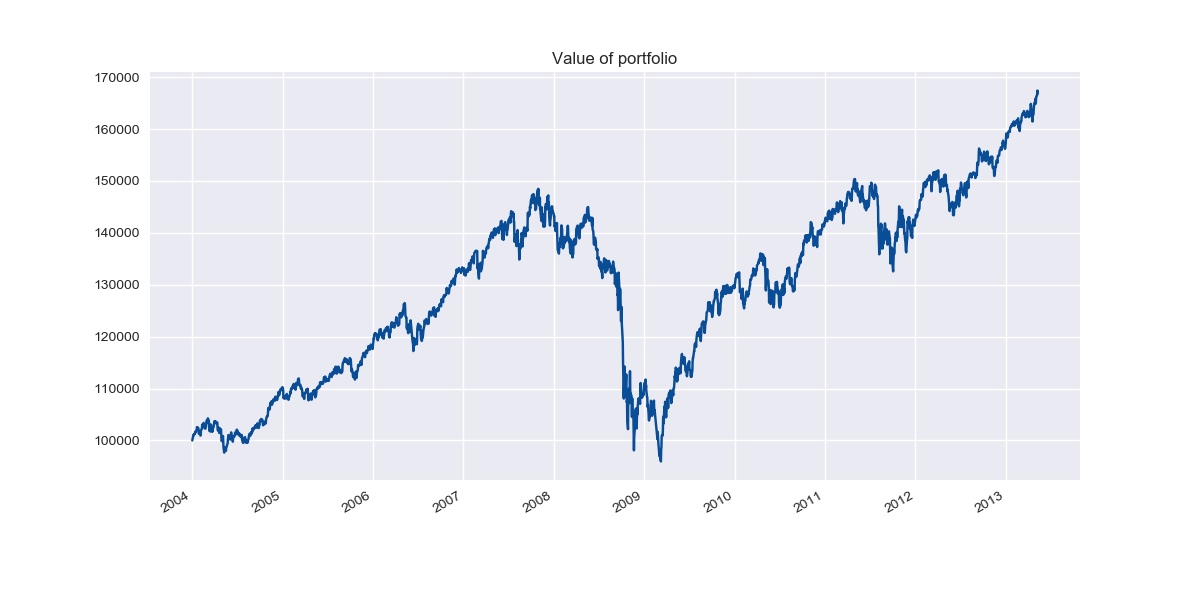
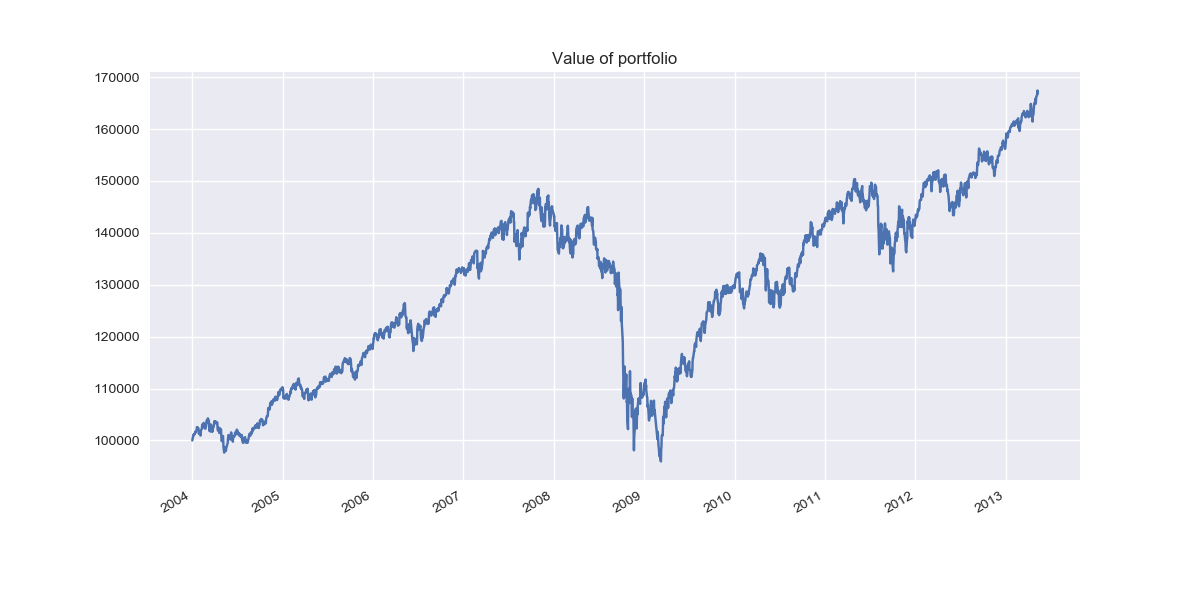
Combined returns into one plot

diff --git a/BCS.py b/BCS.py
@@ -15,7 +15,6 @@ def within_tolerance(target, current, drift):
 
 if __name__ == '__main__':
     sns.set()
-    sns.set_palette(sns.color_palette('Blues_r', 8))
 
     STARTING_CASH = 100000
     MAX_DRIFT = 0.05
@@ -33,10 +32,6 @@ if __name__ == '__main__':
         data=[0.25, 0.25, 0.125, 0.125, 0.04, 0.035, 0.125, 0.05],
         index=tickers
     )
-    minkowski = partial(
-        minkowski_distance,
-        arr_2=target_weights.values,
-        p=MINKOWSKI_P)
 
     # NON REBALANCED PORTFOLIO
     cumulative_returns_df = (returns_df+1).cumprod()
@@ -86,21 +81,41 @@ if __name__ == '__main__':
         title='Weight of portfolio assets of buy-and-hold portfolio',
         kind='area',
         legend=False,
-        ylim=(0, 1)
+        ylim=(0, 1),
+        colormap='Blues_r'
     )
     rebalance_df_alloc.plot(
         ax=axes_alloc[1],
         title='Weight of portfolio assets of rebalanced portfolio',
         kind='area',
-        legend=False
+        legend=False,
+        colormap='Blues_r'
     )
     axes_alloc[0].set_xlim(dates[0], dates[-1])
     plt.legend(loc=9, bbox_to_anchor=(0.5, -0.2), ncol=8)
-    plt.savefig('Allocations')
+    plt.savefig('Allocations', dpi=200)
     plt.gcf().clear()
     plt.close()
 
     # PORTFOLIO RETURNS
+    fig_returns, axes_returns = plt.subplots()
+
+    buy_and_hold_df.sum(axis=1).plot(
+        ax=axes_returns,
+        figsize=(12, 6),
+        title='Portfolio values',
+        label='Value of buy-and-hold portfolio'
+    )
+    rebalance_df.sum(axis=1).plot(
+        ax=axes_returns,
+        label='Value of rebalanced portfolio'
+    )
+    axes_returns.set_xlim(dates[0], dates[-1])
+    plt.legend(loc=9, bbox_to_anchor=(0.5, -0.1), ncol=2)
+    plt.savefig('Returns')
+    plt.gcf().clear()
+    plt.close()
+
     buy_and_hold_df.sum(axis=1).plot(
         figsize=(12, 6),
         title='Value of portfolio',
